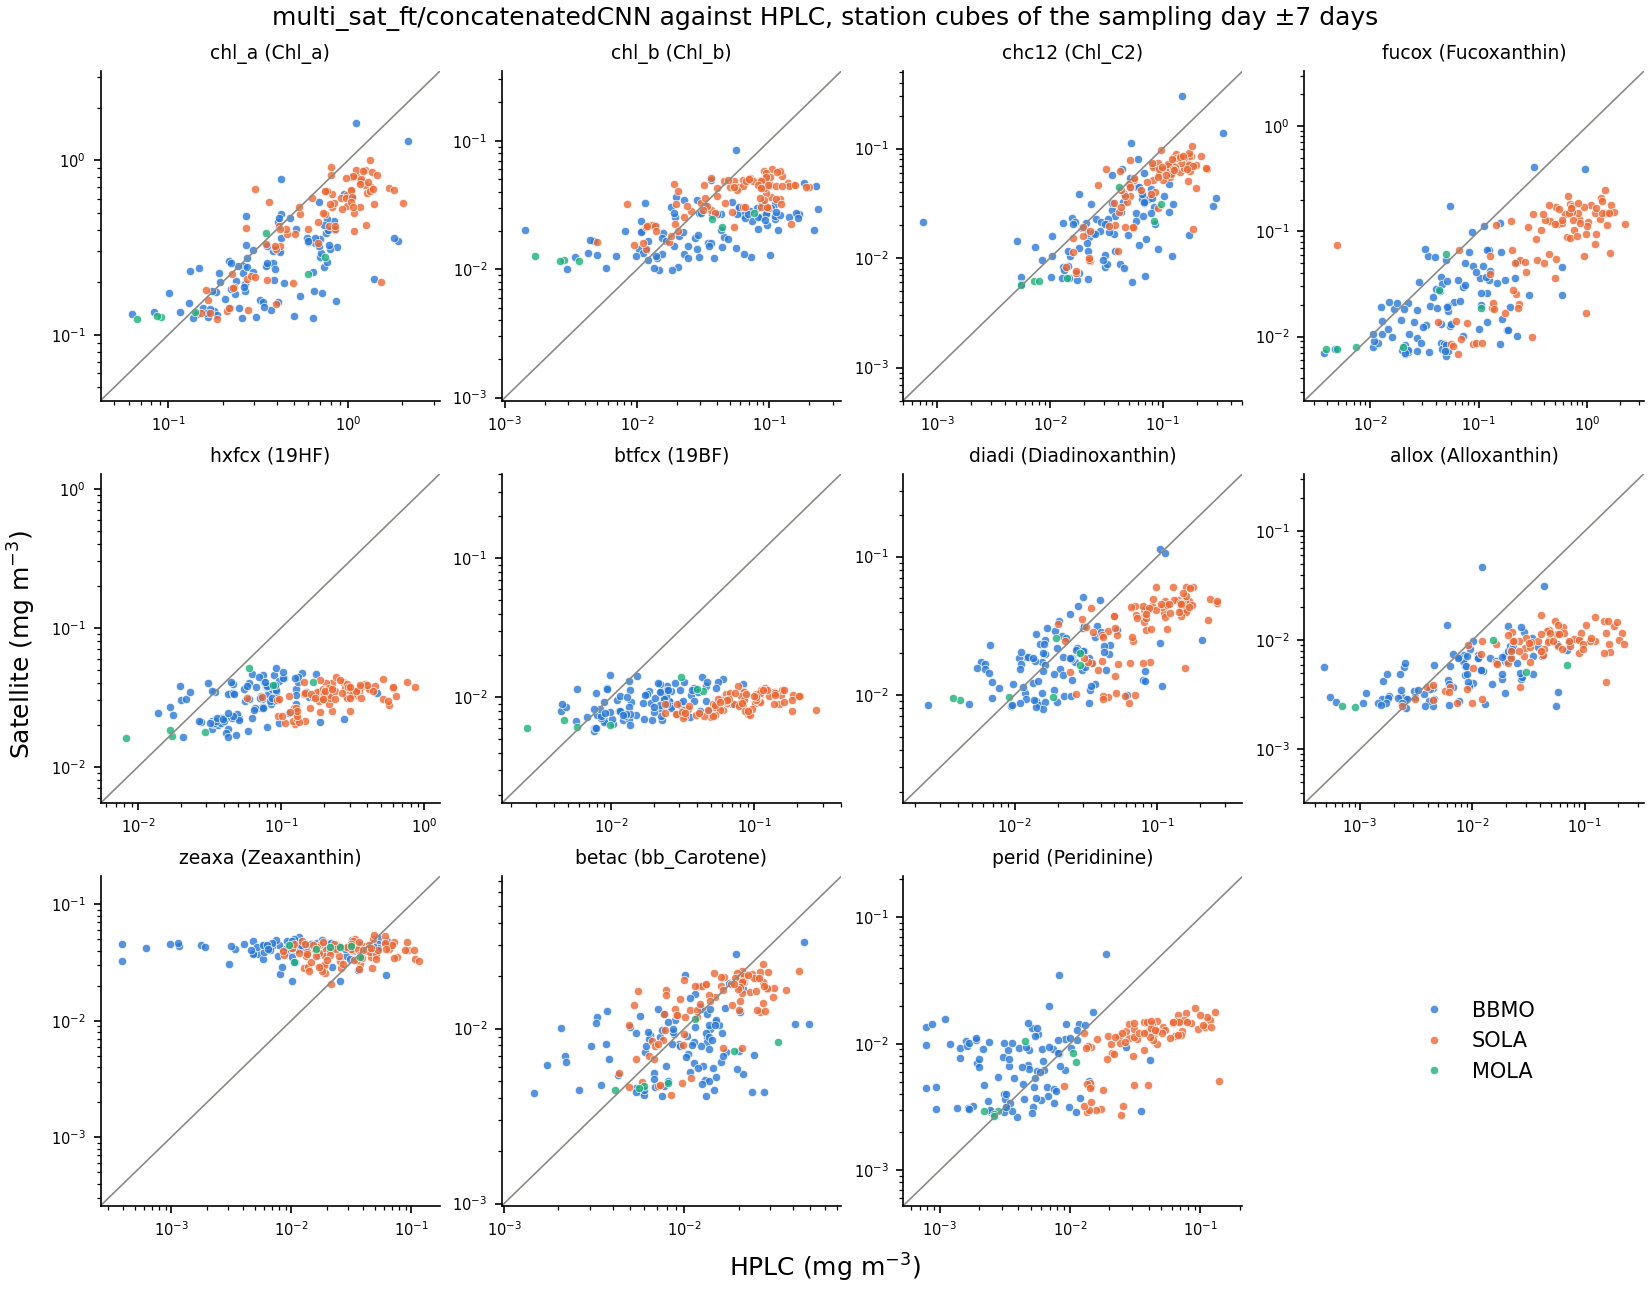
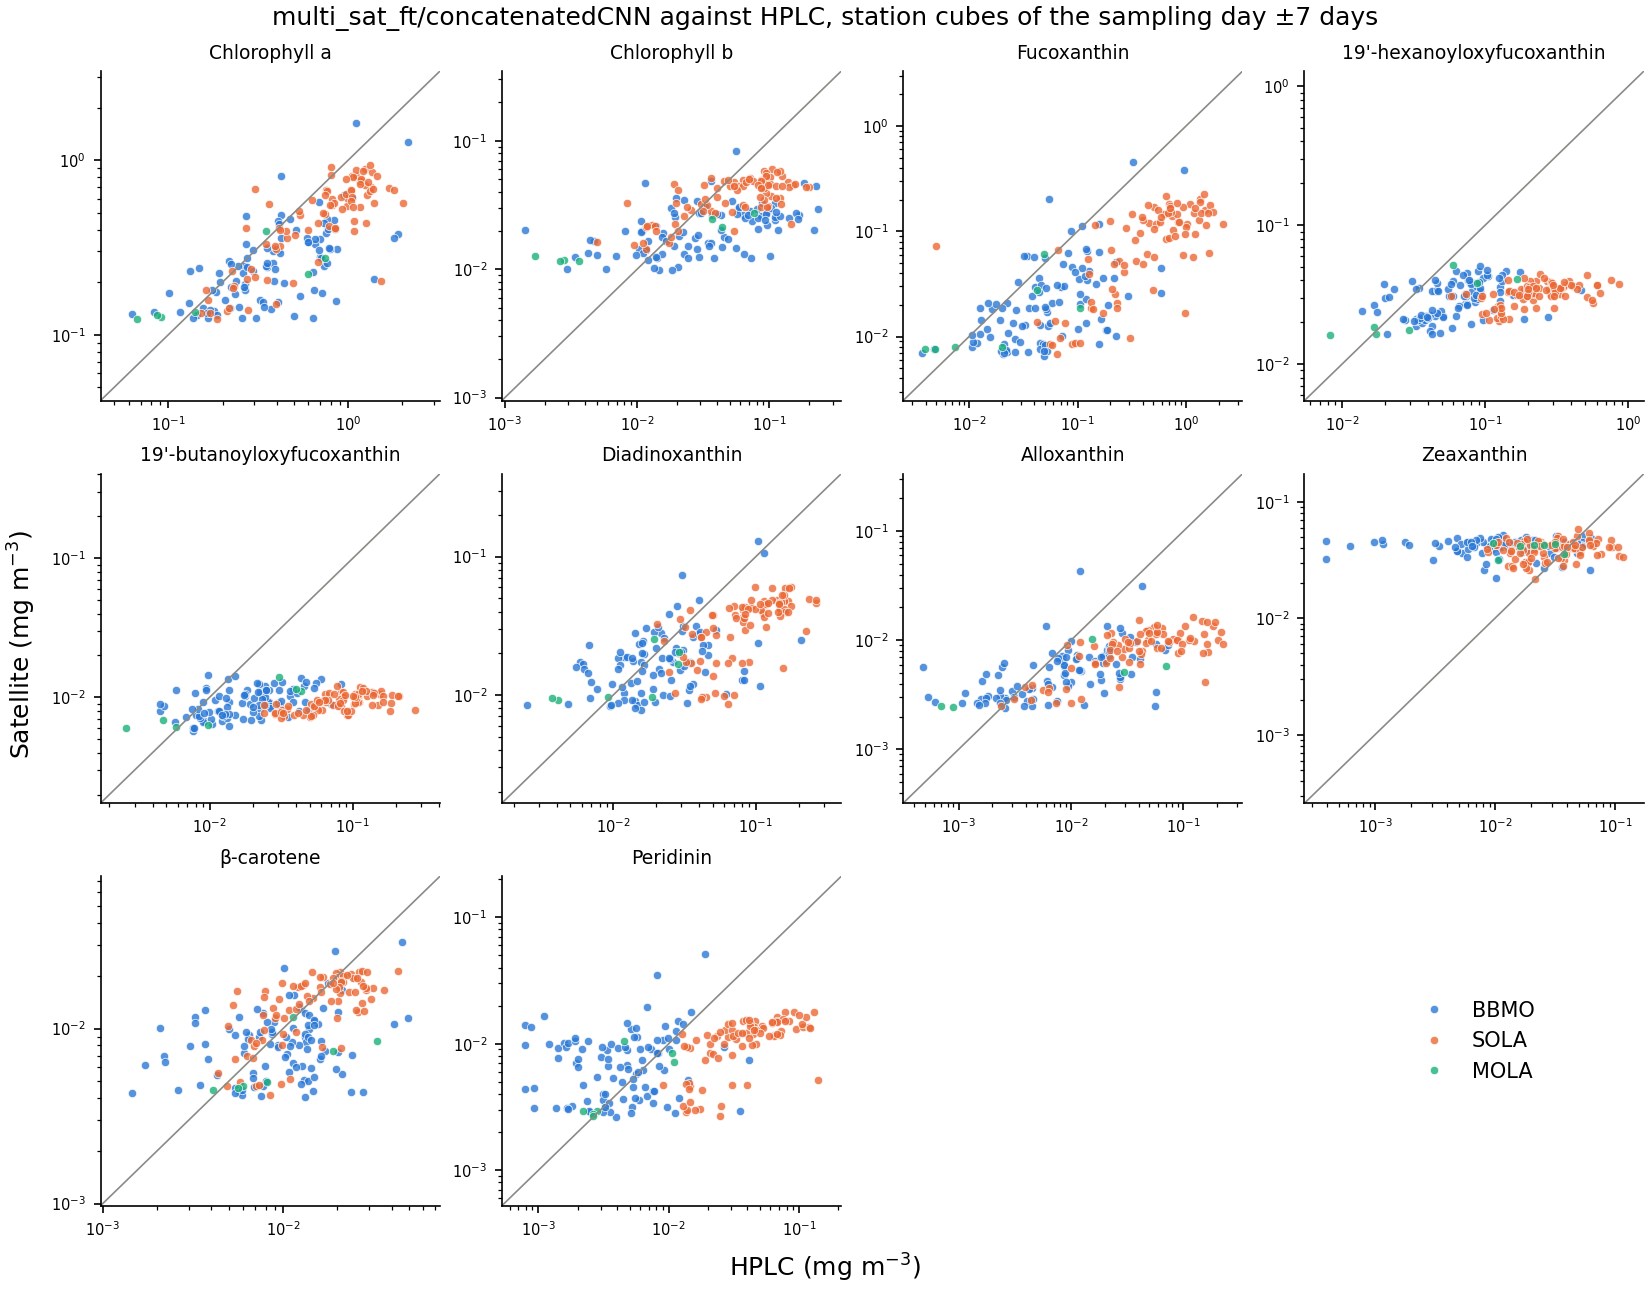
Check the pigments against HPLC with R² and plot their series

diff --git a/task1/scripts/hplc_check.py b/task1/scripts/hplc_check.py
@@ -6,9 +6,10 @@ The Task 2 samples with HPLC pigments (PETRIMED: SOLA, BBMO and MOLA; one per st
 matched with their station cube of station_matchups.py: the 11 x 9 pixels around the station, from
 7 days before to 7 days after the sampling day. Each convolutional Task 1 model of the 5
 multi-sensor bands predicts the pigments of every pixel and day with a satellite retrieval, and
-their median is compared with the HPLC pigments with the metrics of Task 1 on ln(pigment) and the
-Pearson r. Writes task1/data/hplc_check.csv and task1/figures/hplc_check.png (each pigment, for the
-model of the record).
+their median is compared with the HPLC pigments, for the 10 pigments of the proposal: R^2 and
+Pearson r of ln(pigment), and MAPE and MPE (bias) of the concentrations, as in the Task 1 paper.
+Writes task1/data/hplc_check.csv and, for the model of the record, task1/figures/hplc_check.png
+(each pigment, all samples) and task1/figures/hplc_series_<station>.png (each pigment over time).
 """
 from __future__ import annotations
 
@@ -25,13 +26,19 @@ from pigment_retrieval.predict.predict import Predictor, available_models  # noq
 DATA_DIR = Path("task2/PETRIMED/DATA")
 STATION_CUBES = Path("task1/data/station_matchups/datasets/optics.nc")
 OUTPUT = Path("task1/data/hplc_check.csv")
-FIGURE = Path("task1/figures/hplc_check.png")
+FIGURES = Path("task1/figures")
 RECORD_MODEL = "multi_sat_ft/concatenatedCNN"   # the model of the satellite record
+SERIES = ["BBMO", "SOLA"]                       # stations with a time series of samples
 BANDS = {"RRS412": "412", "RRS443": "442", "RRS490": "490", "RRS555": "560", "RRS670": "673"}
-# Task 1 pigment: the same pigment in the HPLC tables (Chl_C2 is c2 only, Task 1 gives c1 + c2)
-PAIRS = {"chl_a": "Chl_a", "chl_b": "Chl_b", "chc12": "Chl_C2", "fucox": "Fucoxanthin", "hxfcx": "19HF",
-         "btfcx": "19BF", "diadi": "Diadinoxanthin", "allox": "Alloxanthin", "zeaxa": "Zeaxanthin",
-         "betac": "bb_Carotene", "perid": "Peridinine"}
+# Task 1 pigment: its name in the HPLC tables
+PAIRS = {"chl_a": "Chl_a", "chl_b": "Chl_b", "fucox": "Fucoxanthin", "hxfcx": "19HF", "btfcx": "19BF",
+         "diadi": "Diadinoxanthin", "allox": "Alloxanthin", "zeaxa": "Zeaxanthin", "betac": "bb_Carotene",
+         "perid": "Peridinine"}
+NAMES = {"chl_a": "Chlorophyll a", "chl_b": "Chlorophyll b", "fucox": "Fucoxanthin",
+         "hxfcx": "19'-hexanoyloxyfucoxanthin", "btfcx": "19'-butanoyloxyfucoxanthin", "diadi": "Diadinoxanthin",
+         "allox": "Alloxanthin", "zeaxa": "Zeaxanthin", "betac": "β-carotene", "perid": "Peridinin"}
+INK, SATELLITE = "#52514e", "#eb6834"
+STATION_COLORS = {"BBMO": "#2a78d6", "SOLA": "#eb6834", "MOLA": "#1baf7a"}
 
 
 def read_samples() -> pd.DataFrame:
@@ -44,18 +51,16 @@ def read_samples() -> pd.DataFrame:
 
 
 def satellite_inputs(ids: pd.Index) -> xr.Dataset:
-    """ln(Rrs) of the pixels and days with a satellite retrieval in the station cubes of the samples."""
+    """ln(Rrs) of the station cubes of the samples; pixels and days without a retrieval are empty."""
     # Through dask, each compressed chunk of the file (thousands of cubes) is read once
     with xr.open_dataarray(STATION_CUBES, chunks={}) as cubes:
-        cube = cubes.sel(Id=ids.intersection(cubes["Id"].values)).reset_coords(drop=True).load()
-    cube = cube.where(cube.sel(variable="cloud_mask", drop=True) == 0).sel(variable=list(BANDS))
-    x = cube.to_dataset("variable").rename(BANDS)
-    # ln(Rrs) is negative: a 0 is a gap filled by the cubes
-    return x.where(x < 0)
+        cube = cubes.sel(Id=ids.intersection(cubes["Id"].values), variable=list(BANDS)).reset_coords(drop=True)
+        return cube.load().to_dataset("variable").rename(BANDS)
 
 
 def scores(hplc: pd.DataFrame, predicted: pd.DataFrame) -> pd.DataFrame:
-    """Task 1 metrics on ln(pigment), Pearson r and number of samples, per pigment."""
+    """Per pigment: R^2 (coefficient of determination) and Pearson r of ln(pigment), MAPE and MPE
+    (bias) of the concentrations in %, and the number of samples."""
     from pigment_retrieval.metrics.metrics import Metrics
     log_hplc = np.log(hplc.where(hplc > 0))
     log_pred = np.log(predicted.where(predicted > 0))
@@ -63,7 +68,7 @@ def scores(hplc: pd.DataFrame, predicted: pd.DataFrame) -> pd.DataFrame:
     table["r"] = [log_hplc[p].corr(log_pred[p]) for p in table.index]
     table["n"] = [int((log_hplc[p].notnull() & log_pred[p].notnull()).sum()) for p in table.index]
     table[["MAPE", "MPE"]] *= 100
-    return table[["n", "r", "R2", "MAPE", "MPE"]]
+    return table[["n", "R2", "r", "MAPE", "MPE"]]
 
 
 def plot_scatter(hplc: pd.DataFrame, predicted: pd.DataFrame, stations: pd.Series, title: str, path: Path) -> None:
@@ -72,24 +77,63 @@ def plot_scatter(hplc: pd.DataFrame, predicted: pd.DataFrame, stations: pd.Serie
     matplotlib.use("Agg")
     import matplotlib.pyplot as plt
 
-    colors = {"BBMO": "#2a78d6", "SOLA": "#eb6834", "MOLA": "#1baf7a"}
     fig, axes = plt.subplots(3, 4, figsize=(11, 8.6), layout="constrained")
     for ax, pigment in zip(axes.flat, PAIRS):
         x, y = hplc[pigment].where(hplc[pigment] > 0), predicted[pigment]
-        for station, color in colors.items():
+        for station, color in STATION_COLORS.items():
             at = stations == station
             ax.plot(x[at], y[at], "o", ms=4, color=color, alpha=0.8, mec="white", mew=0.4, label=station)
         both = pd.concat([x, y]).dropna()
         limits = [both.min() / 1.5, both.max() * 1.5]
         ax.plot(limits, limits, color="#8a8a86", lw=0.8)
         ax.set(xscale="log", yscale="log", xlim=limits, ylim=limits)
-        ax.set_title(f"{pigment} ({PAIRS[pigment]})", fontsize=9)
+        ax.set_title(NAMES[pigment], fontsize=9)
         ax.tick_params(labelsize=7)
         ax.spines[["top", "right"]].set_visible(False)
-    axes.flat[-1].axis("off")
+    for ax in axes.flat[len(PAIRS):]:
+        ax.axis("off")
     axes.flat[-1].legend(*axes.flat[0].get_legend_handles_labels(), loc="center", frameon=False)
     fig.supxlabel("HPLC (mg m$^{-3}$)")
     fig.supylabel("Satellite (mg m$^{-3}$)")
+    fig.suptitle(title)
+    path.parent.mkdir(parents=True, exist_ok=True)
+    fig.savefig(path, dpi=150)
+    plt.close(fig)
+
+
+def label_log_axis(ax) -> None:
+    """Plain labels at 1, 2 and 5 of each decade on a narrow log y axis, at each decade on a wide one."""
+    from matplotlib.ticker import FuncFormatter, LogLocator, NullLocator
+    low, high = ax.get_ylim()
+    ax.yaxis.set_major_locator(LogLocator(subs=(1.0,) if high / low > 100 else (1.0, 2.0, 5.0)))
+    ax.yaxis.set_major_formatter(FuncFormatter(lambda value, _: f"{value:g}"))
+    ax.yaxis.set_minor_locator(NullLocator())
+
+
+def plot_series(hplc: pd.DataFrame, predicted: pd.DataFrame, dates: pd.Series, title: str, path: Path) -> None:
+    """HPLC and satellite pigments of one station over time, one panel per pigment."""
+    import matplotlib
+    matplotlib.use("Agg")
+    import matplotlib.pyplot as plt
+
+    order = dates.sort_values().index
+    table = scores(hplc.loc[order], predicted.loc[order])
+    fig, axes = plt.subplots(5, 2, figsize=(10, 9.5), sharex=True, layout="constrained")
+    for ax, pigment in zip(axes.T.flat, PAIRS):
+        observed = hplc.loc[order, pigment]
+        ax.plot(dates[order], observed.where(observed > 0), color=INK, lw=1.4, marker="o", ms=3, label="HPLC")
+        ax.plot(dates[order], predicted.loc[order, pigment], color=SATELLITE, lw=1.2,
+                label="satellite, station cube of the sampling day ±7 days")
+        ax.set_yscale("log")
+        label_log_axis(ax)
+        ax.set_title(f"{NAMES[pigment]}: R² = {table.loc[pigment, 'R2']:.2f}, r = {table.loc[pigment, 'r']:.2f}",
+                     fontsize=9, loc="left")
+        ax.tick_params(labelsize=7)
+        ax.grid(axis="y", color="#e5e5e2", lw=0.6)
+        ax.spines[["top", "right"]].set_visible(False)
+    fig.supylabel("mg m$^{-3}$")
+    fig.legend(*axes[0, 0].get_legend_handles_labels(), loc="outside lower center", ncol=2, frameon=False,
+               fontsize=8)
     fig.suptitle(title)
     path.parent.mkdir(parents=True, exist_ok=True)
     fig.savefig(path, dpi=150)
@@ -108,14 +152,21 @@ def main() -> int:
                      .to_dataframe()[list(PAIRS)].dropna())
         rows.append(scores(hplc.loc[predicted.index], predicted).assign(model=name))
         if name == RECORD_MODEL:
-            plot_scatter(hplc.loc[predicted.index], predicted, samples.loc[predicted.index, "ST"],
-                         f"{RECORD_MODEL} against HPLC, station cubes of the sampling day ±7 days", FIGURE)
+            at = predicted.index
+            plot_scatter(hplc.loc[at], predicted, samples.loc[at, "ST"],
+                         f"{RECORD_MODEL} against HPLC, station cubes of the sampling day ±7 days",
+                         FIGURES / "hplc_check.png")
+            for station in SERIES:
+                ids = at[samples.loc[at, "ST"] == station]
+                plot_series(hplc.loc[ids], predicted.loc[ids], samples.loc[ids, "Date"],
+                            f"{station}: HPLC and satellite pigments ({RECORD_MODEL})",
+                            FIGURES / f"hplc_series_{station}.png")
     table = pd.concat(rows).rename_axis("pigment").reset_index()
     OUTPUT.parent.mkdir(parents=True, exist_ok=True)
     table.to_csv(OUTPUT, index=False, float_format="%.3f")
     print(table.query("model == @RECORD_MODEL").drop(columns="model").round(2).to_string(index=False))
-    print(table.groupby("model")[["n", "r", "MAPE"]].median().sort_values("r").round(2).to_string())
-    print(f"{OUTPUT}, {FIGURE}")
+    print(table.groupby("model")[["n", "R2", "r", "MAPE"]].median().sort_values("R2").round(2).to_string())
+    print(f"{OUTPUT}, {FIGURES}")
     return 0
 
 
